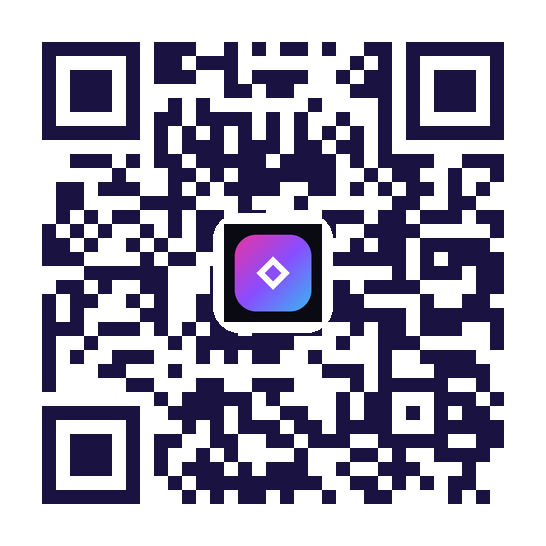
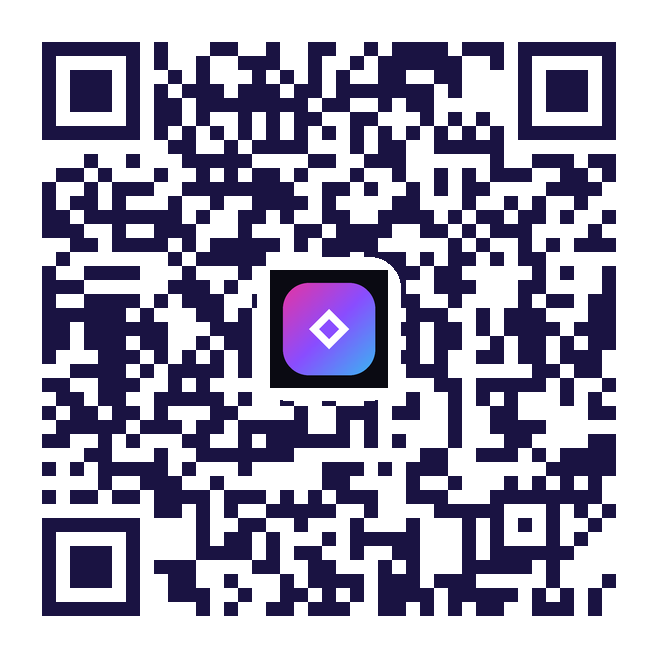
Connect: point Scan QR to the app (relabel 'Scan for the app')

diff --git a/index.html b/index.html
@@ -253,7 +253,7 @@
       </div>
       <div class="cb-row">
         <a class="cb-linktree" href="https://linktr.ee/thestickytrap" target="_blank" rel="noopener">LINKTREE</a>
-        <a class="cb-qr" href="https://linktr.ee/thestickytrap" target="_blank" rel="noopener"><img src="icons/links-qr.png" alt="Scan for links"><span class="cb-scan">SCAN FOR <b>LINKS</b></span></a>
+        <a class="cb-qr" href="https://stickytrapapp.github.io/sticky-trap-app/" target="_blank" rel="noopener"><img src="icons/links-qr.png" alt="Scan for the app"><span class="cb-scan">SCAN FOR <b>THE APP</b></span></a>
       </div>
       <img class="cb-logo" src="img/logo.png" alt="The Sticky Trap — Let's stick together">
       <div class="cb-house">DESIGN HOUSE</div>
